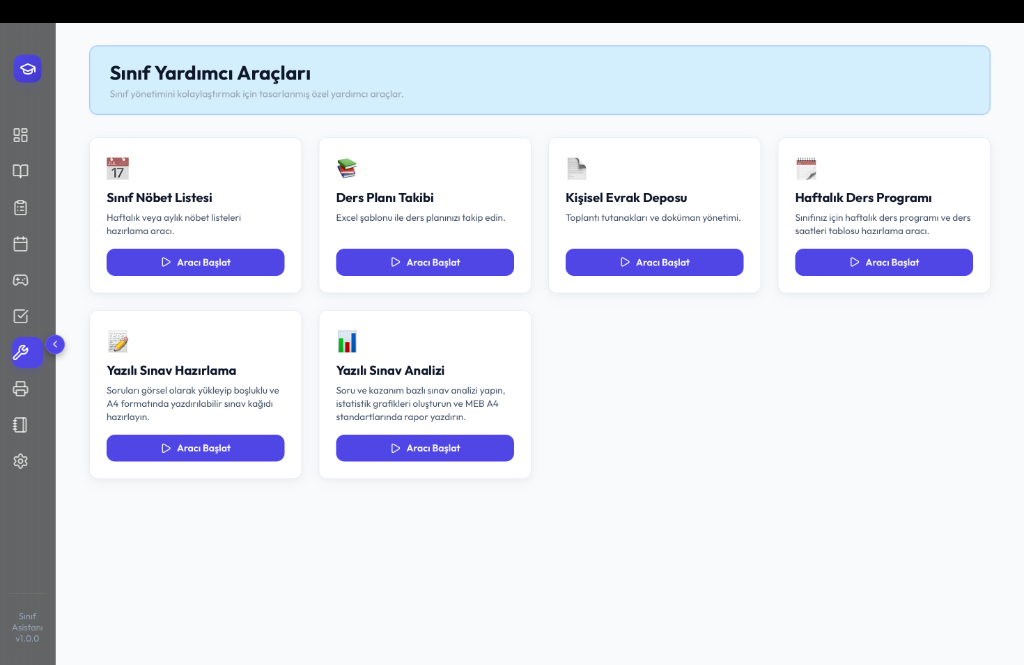
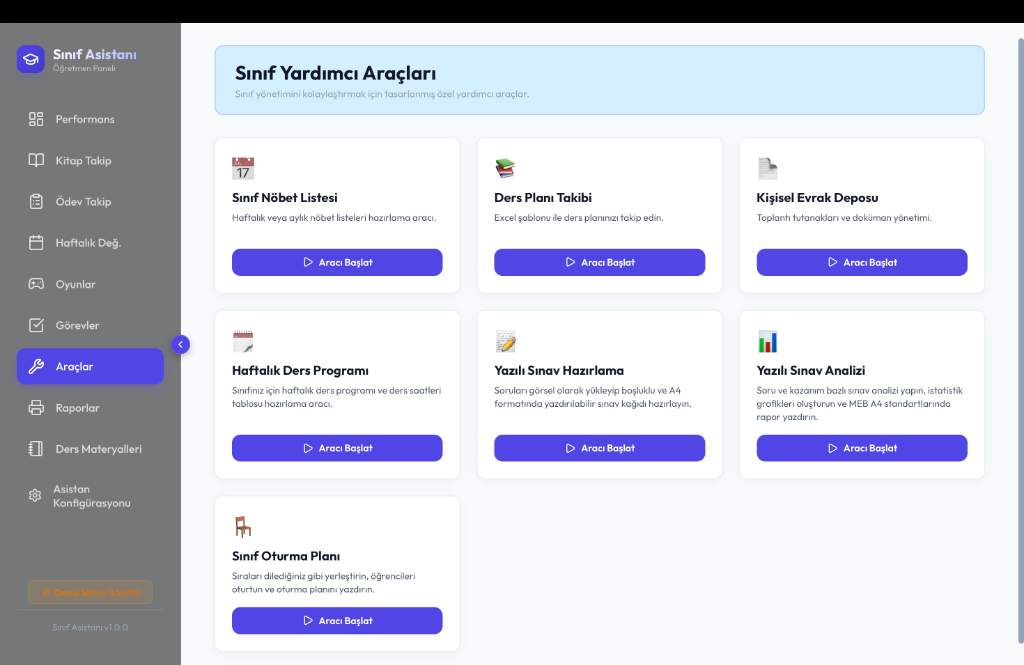
update(tanitim): araclar sekmesi ekran goruntusu guncellendi

diff --git a/dist/tanitim/index.html b/dist/tanitim/index.html
@@ -1179,7 +1179,7 @@
 <!-- Slide 7: Araçlar -->
 <div class="slide-item" data-title="Araçlar" style="padding: 0; overflow: hidden; position: relative;">
   <div class="hero-full-bg">
-    <img src="images/screen_tools.png?v=1" alt="Araçlar" class="main-fullscreen-img">
+    <img src="images/screen_tools.png?v=2" alt="Araçlar" class="main-fullscreen-img">
   </div>
   <div class="hero-overlay-box">
     <h3 class="overlay-title">Sınıf Yardımcı Araçları</h3>

diff --git a/tanitim/index.html b/tanitim/index.html
@@ -1179,7 +1179,7 @@
 <!-- Slide 7: Araçlar -->
 <div class="slide-item" data-title="Araçlar" style="padding: 0; overflow: hidden; position: relative;">
   <div class="hero-full-bg">
-    <img src="images/screen_tools.png?v=1" alt="Araçlar" class="main-fullscreen-img">
+    <img src="images/screen_tools.png?v=2" alt="Araçlar" class="main-fullscreen-img">
   </div>
   <div class="hero-overlay-box">
     <h3 class="overlay-title">Sınıf Yardımcı Araçları</h3>
